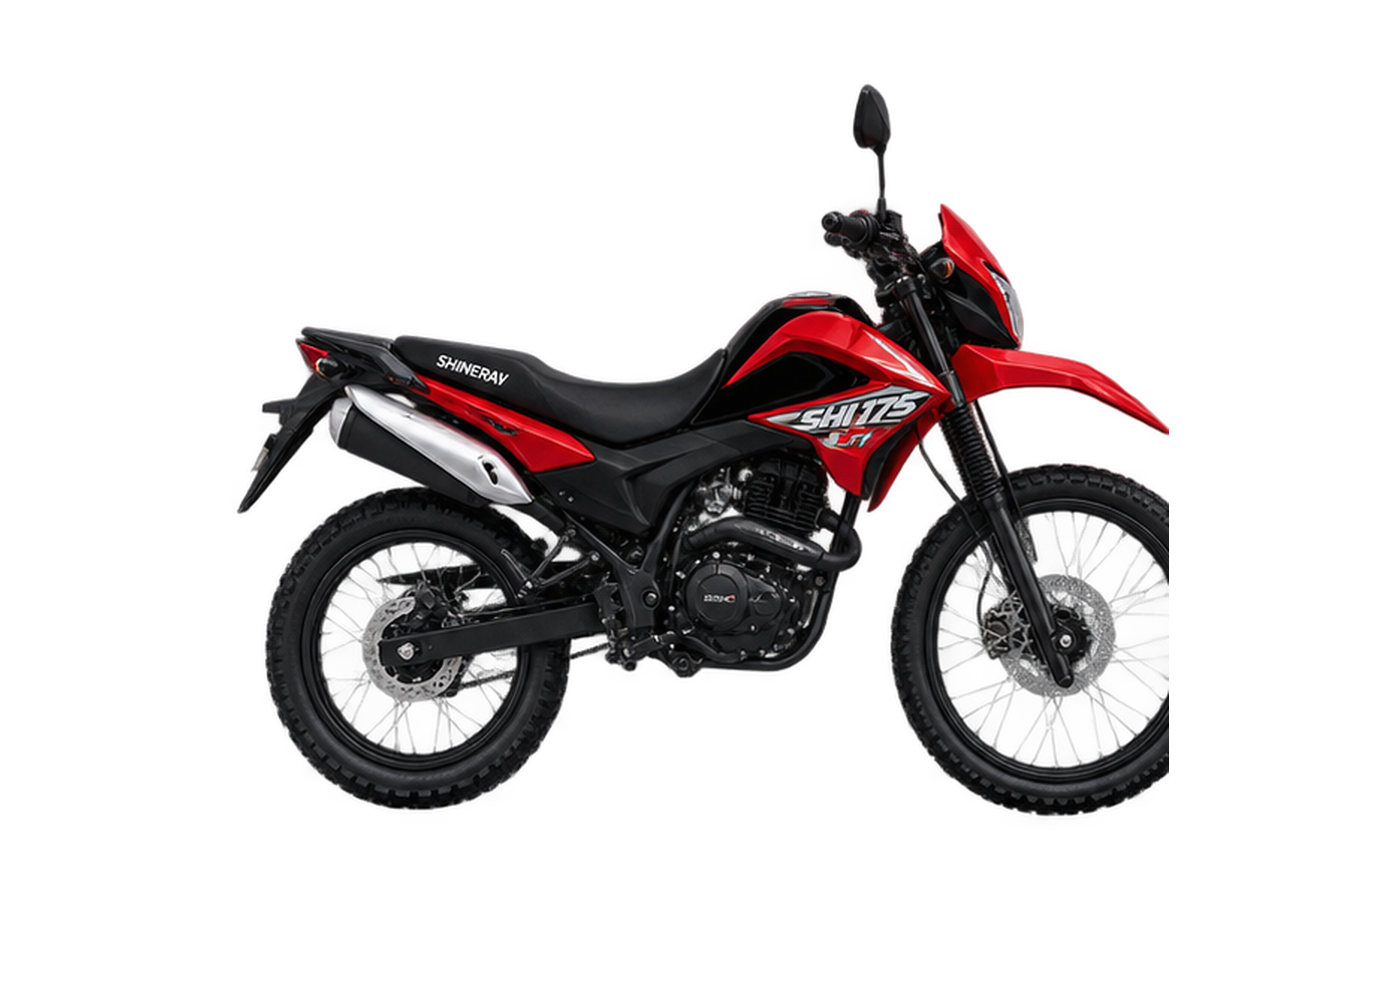
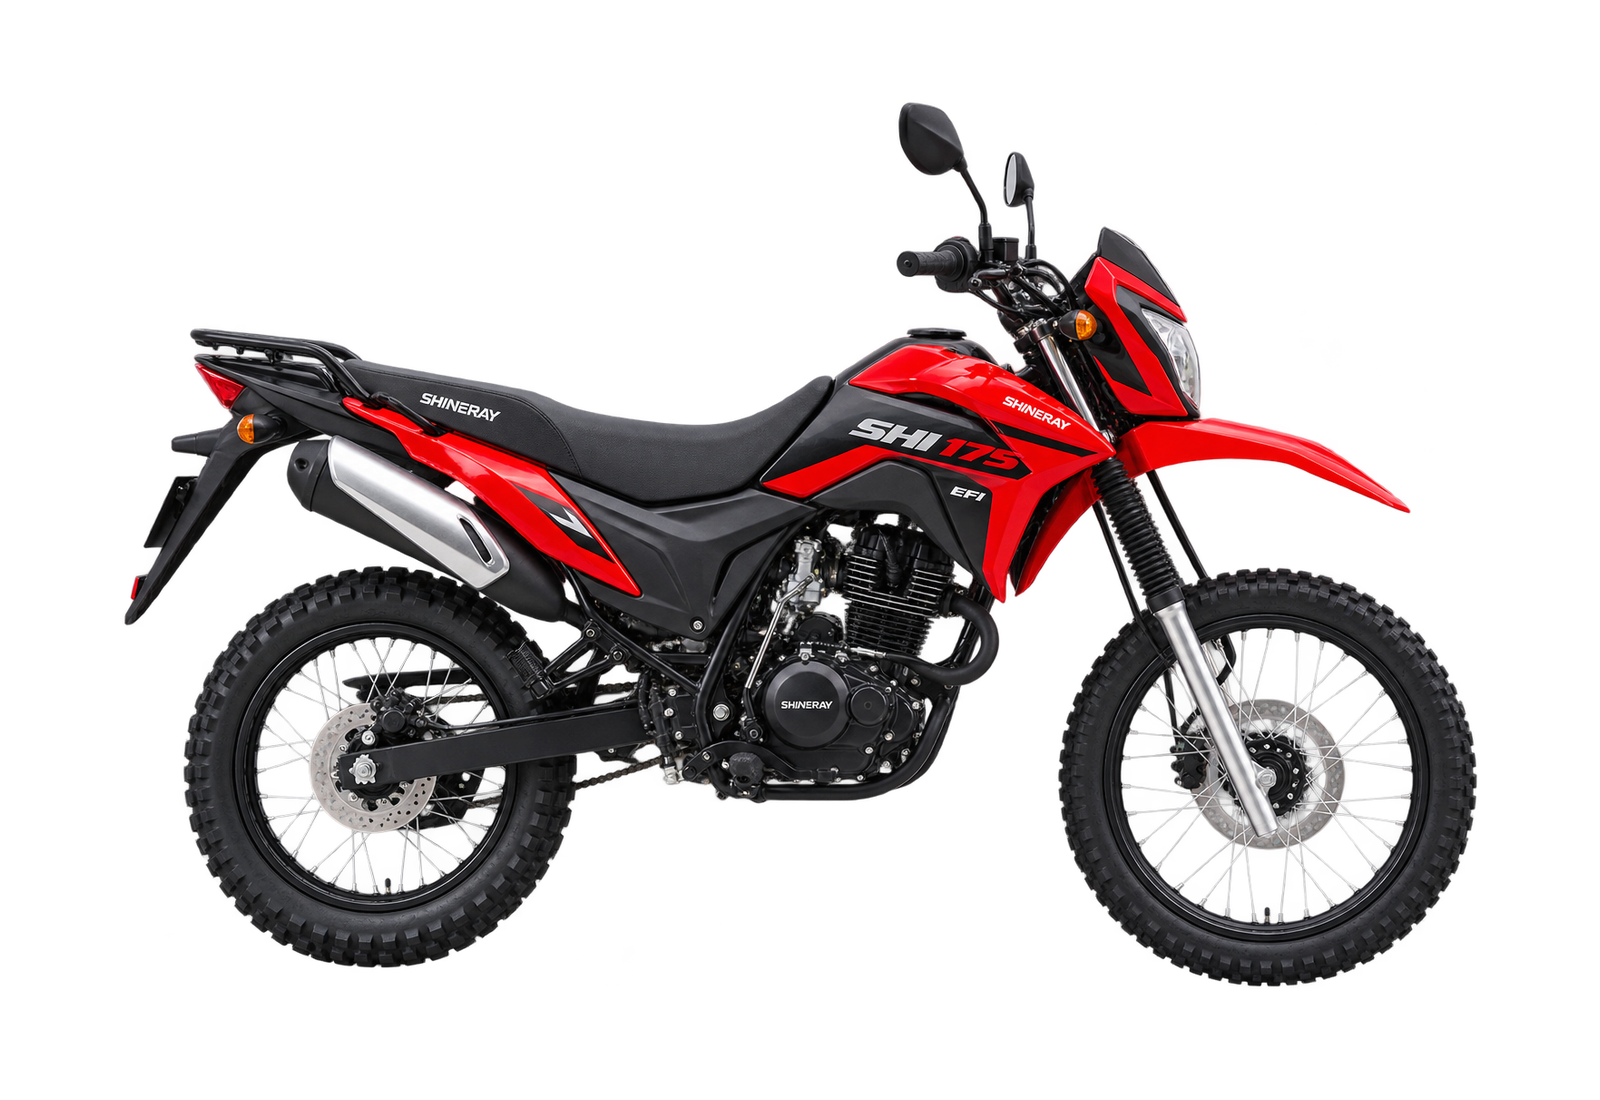
Update VR Multimarcas presentation Co-authored-by: monkeycode-ai <monkeycode-ai@chaitin.com>

Changed region(s): [[0.0614, 0.093, 0.9214, 0.899]]

diff --git a/vr-showroom/src/index.css b/vr-showroom/src/index.css
@@ -95,7 +95,7 @@ section {
 }
 
 .logo3d img {
-  width: clamp(36px, 4vw, 58px);
+  width: clamp(48px, 3.4vw, 54px);
   height: auto;
   transform-style: preserve-3d;
   animation: logo-enter 0.9s cubic-bezier(0.16, 1, 0.3, 1) 0.1s both;
@@ -344,6 +344,34 @@ section {
   pointer-events: none;
 }
 
+.slide-bike-wrap::before {
+  content: '';
+  position: absolute;
+  top: 50%;
+  left: 50%;
+  transform: translate(-50%, -50%);
+  width: min(64vw, 960px);
+  height: min(70svh, 760px);
+  z-index: 0;
+  background: radial-gradient(ellipse 50% 50% at 50% 50%, rgba(42, 46, 51, 0.4) 0%, rgba(42, 46, 51, 0) 68%);
+  pointer-events: none;
+}
+
+.slide-bike-wrap::after {
+  content: '';
+  position: absolute;
+  top: calc(50% + 34svh + 18px);
+  left: 50%;
+  transform: translate(-50%, -50%);
+  width: min(46vw, 660px);
+  height: 8svh;
+  z-index: 0;
+  background: radial-gradient(ellipse 50% 50% at 50% 50%, rgba(0, 0, 0, 0.5) 0%, rgba(0, 0, 0, 0) 70%);
+  filter: blur(20px);
+  border-radius: 50%;
+  pointer-events: none;
+}
+
 .slide-giant-number {
   position: absolute;
   top: 50%;
@@ -364,12 +392,20 @@ section {
 .slide-bike-img {
   position: relative;
   z-index: 2;
-  width: min(62vw, 900px);
-  max-height: 66svh;
+  width: auto;
   height: auto;
+  max-width: min(72vw, 1040px);
+  max-height: 76svh;
   object-fit: contain;
+  object-position: center;
+  transform: translateY(18px);
   filter: drop-shadow(0 60px 80px rgba(0, 0, 0, 0.55));
   -webkit-user-drag: none;
+}
+
+.slide-bike-img.bike-scale-jet {
+  max-width: min(92vw, 1280px);
+  max-height: 93svh;
 }
 
 .slide-info {
@@ -551,6 +587,10 @@ section {
 
 .slide-leave-prev {
   animation: slide-out-right 0.45s cubic-bezier(0.4, 0, 0.8, 1) both;
+}
+
+.slide-leave .slide-bike-wrap {
+  opacity: 0;
 }
 
 @keyframes slide-in-right {
@@ -757,46 +797,89 @@ section {
 
 /* ══════════════════════════ DETALHES ══════════════════════════ */
 
-.triptych {
+.detail-stage {
   position: relative;
   display: grid;
-  grid-template-columns: 1fr 1.6fr 1fr;
+  grid-template-columns: 1fr 1.9fr 1fr;
   align-items: center;
-  gap: clamp(12px, 2vw, 32px);
+  gap: clamp(10px, 1.6vw, 24px);
   min-height: clamp(320px, 52vh, 560px);
   margin-bottom: clamp(48px, 8vh, 88px);
 }
 
-.triptych-side {
+.detail-stage-side {
+  position: relative;
   overflow: hidden;
 }
 
-.triptych-side img {
+.detail-stage-side img {
+  display: block;
   width: 100%;
-  height: clamp(220px, 38vh, 420px);
+  height: clamp(200px, 34vh, 380px);
   object-fit: cover;
-  opacity: 0.75;
+  opacity: 0.72;
   filter: grayscale(0.25);
 }
 
-.triptych-center {
+.detail-stage-side-left {
+  transform-origin: left center;
+  transform: translateX(-30px);
+}
+
+.detail-stage-side-right {
+  transform-origin: right center;
+  transform: translateX(30px);
+}
+
+.detail-stage-side.reveal.is-visible {
+  transform: translate(0, 0);
+}
+
+.detail-stage-center {
   position: relative;
   overflow: hidden;
   z-index: 2;
+  box-shadow: 0 24px 60px -28px rgba(0, 0, 0, 0.85);
 }
 
-.triptych-center img {
+.detail-stage-center img {
+  display: block;
   width: 100%;
   height: clamp(300px, 52vh, 560px);
   object-fit: cover;
 }
 
-.triptych-center::after {
+.detail-stage-center::after {
   content: '';
   position: absolute;
   inset: 0;
   border: 1px solid var(--hairline);
   pointer-events: none;
+}
+
+.detail-stage-label {
+  display: flex;
+  align-items: center;
+  gap: 10px;
+  margin-top: 14px;
+  font-size: 11px;
+  letter-spacing: 0.28em;
+  color: var(--text-muted);
+  text-transform: uppercase;
+}
+
+.detail-stage-label::before {
+  content: '';
+  width: 16px;
+  height: 1px;
+  background: var(--gold);
+  opacity: 0.9;
+  flex-shrink: 0;
+}
+
+.detail-stage-center .detail-stage-label {
+  justify-content: center;
+  margin-top: 18px;
 }
 
 .detail-strip {
@@ -1198,8 +1281,8 @@ section {
 /* ══════════════════════════ MOBILE ══════════════════════════ */
 
 @media (max-width: 1024px) {
-  .triptych {
-    grid-template-columns: 1fr 1.5fr 1fr;
+  .detail-stage {
+    grid-template-columns: 1fr 1.6fr 1fr;
   }
 }
 
@@ -1248,6 +1331,23 @@ section {
     width: auto;
     max-width: 92%;
     max-height: 42svh;
+    transform: translateY(10px);
+  }
+
+  .slide-bike-img.bike-scale-jet {
+    max-width: 100%;
+    max-height: 52svh;
+  }
+
+  .slide-bike-wrap::before {
+    width: min(92vw, 480px);
+    height: min(52svh, 320px);
+  }
+
+  .slide-bike-wrap::after {
+    top: calc(50% + 20svh);
+    width: min(70vw, 340px);
+    height: 5svh;
   }
 
   .slide-cta {
@@ -1287,17 +1387,31 @@ section {
     padding: clamp(64px, 10vh, 100px) clamp(20px, 6vw, 32px);
   }
 
-  .triptych {
-    grid-template-columns: 1fr 1.4fr 1fr;
+  .detail-stage {
+    grid-template-columns: 1fr 1fr;
+    grid-template-rows: auto auto;
+    align-items: stretch;
+    gap: clamp(14px, 3vw, 24px);
     min-height: auto;
   }
 
-  .triptych-side img {
-    height: clamp(200px, 30vh, 320px);
+  .detail-stage-center {
+    grid-column: 1 / -1;
   }
 
-  .triptych-center img {
-    height: clamp(260px, 40vh, 420px);
+  .detail-stage-center img {
+    height: clamp(280px, 46vw, 420px);
+  }
+
+  .detail-stage-center .detail-stage-label {
+    justify-content: flex-start;
+    margin-top: 14px;
+  }
+
+  .detail-stage-side img {
+    height: clamp(160px, 24vh, 240px);
+    opacity: 0.85;
+    filter: grayscale(0.1);
   }
 
   .detail-strip {

diff --git a/vr-showroom/src/components/sections/Details.tsx b/vr-showroom/src/components/sections/Details.tsx
@@ -1,6 +1,10 @@
 import { Reveal } from '../Reveal'
 import { detailItems } from '../../data/details'
 
+const left = detailItems[0]
+const center = detailItems[1]
+const right = detailItems[2]
+
 export function Details() {
   return (
     <section className="section details" id="detalhes">
@@ -18,15 +22,20 @@ export function Details() {
         </h2>
       </div>
 
-      <div className="triptych" aria-label="Detalhes das motocicletas">
-        <Reveal variant="left" delay={100} className="triptych-side">
-          <img src={detailItems[0].image} alt="Detalhe da roda" draggable="false" />
+      <div className="detail-stage" aria-label="Detalhes das motocicletas">
+        <Reveal variant="left" delay={120} className="detail-stage-side detail-stage-side-left">
+          <img src={left.image} alt={`Detalhe — ${left.label}`} draggable="false" loading="lazy" />
+          <span className="detail-stage-label">{left.label}</span>
         </Reveal>
-        <Reveal variant="clip" className="triptych-center">
-          <img src={detailItems[1].image} alt="Detalhe do motor" draggable="false" />
+
+        <Reveal variant="clip" className="detail-stage-center">
+          <img src={center.image} alt={`Detalhe — ${center.label}`} draggable="false" loading="lazy" />
+          <span className="detail-stage-label">{center.label}</span>
         </Reveal>
-        <Reveal variant="right" delay={100} className="triptych-side">
-          <img src={detailItems[2].image} alt="Detalhe do farol" draggable="false" />
+
+        <Reveal variant="right" delay={120} className="detail-stage-side detail-stage-side-right">
+          <img src={right.image} alt={`Detalhe — ${right.label}`} draggable="false" loading="lazy" />
+          <span className="detail-stage-label">{right.label}</span>
         </Reveal>
       </div>
 

diff --git a/vr-showroom/src/data/motorcycles.ts b/vr-showroom/src/data/motorcycles.ts
@@ -21,7 +21,7 @@ export const motorcycles: Motorcycle[] = [
     model: '175 EFI',
     name: 'SHI 175 EFI',
     displayNumber: '175',
-    image: '/images/motorcycles/shi-175-efi.svg',
+    image: '/images/motorcycles/shi-175-efi.png?v=2',
     specs: [
       { label: 'CC', value: '175' },
       { label: 'INJEÇÃO', value: 'EFI' },
@@ -35,7 +35,7 @@ export const motorcycles: Motorcycle[] = [
     model: '125 EFI',
     name: 'JET 125 EFI',
     displayNumber: '125',
-    image: '/images/motorcycles/jet-125-efi.svg',
+    image: '/images/motorcycles/jet-125-efi.png?v=2',
     specs: [
       { label: 'CC', value: '125' },
       { label: 'INJEÇÃO', value: 'EFI' },
@@ -49,7 +49,7 @@ export const motorcycles: Motorcycle[] = [
     model: '175 SS EFI',
     name: 'SHI 175 SS EFI',
     displayNumber: '175',
-    image: '/images/motorcycles/shi-175-ss-efi.svg',
+    image: '/images/motorcycles/shi-175-ss-efi.png?v=2',
     specs: [
       { label: 'CC', value: '175' },
       { label: 'INJEÇÃO', value: 'EFI' },
@@ -63,7 +63,7 @@ export const motorcycles: Motorcycle[] = [
     model: '200 EFI',
     name: 'STORM 200 EFI',
     displayNumber: '200',
-    image: '/images/motorcycles/storm-200-efi.svg',
+    image: '/images/motorcycles/storm-200-efi.png?v=2',
     specs: [
       { label: 'CC', value: '200' },
       { label: 'INJEÇÃO', value: 'EFI' },

diff --git a/vr-showroom/src/components/Showroom.tsx b/vr-showroom/src/components/Showroom.tsx
@@ -37,10 +37,12 @@ function ShowroomSlide({ bike, entering, leaving, intro = false, dir, onTransiti
           {bike.displayNumber}
         </div>
         <img
-          className="slide-bike-img"
+          className={`slide-bike-img${bike.id === 'jet-125-efi' ? ' bike-scale-jet' : ''}`}
           src={bike.image}
           alt={`Motocicleta ${bike.name}`}
           draggable="false"
+          loading={bike.id === motorcycles[0].id ? 'eager' : 'lazy'}
+          fetchPriority={bike.id === motorcycles[0].id ? 'high' : 'auto'}
         />
       </div>
 
@@ -110,6 +112,13 @@ export function Showroom() {
     const t = setTimeout(handleIntroEnd, 1700)
     return () => clearTimeout(t)
   }, [handleIntroEnd])
+
+  useEffect(() => {
+    motorcycles.forEach((bike) => {
+      const img = new Image()
+      img.src = bike.image
+    })
+  }, [])
 
   const handleTouchStart = (e: React.TouchEvent) => {
     touchStartX.current = e.touches[0].clientX

diff --git a/vr-showroom/src/config/site.ts b/vr-showroom/src/config/site.ts
@@ -3,10 +3,9 @@ export const site = {
   shortName: 'VR',
   city: 'Santo Antônio de Pádua',
   state: 'RJ',
-  phoneDisplay: '(22) 9 9999-9999',
-  // Substitua pelo número real no formato internacional, ex.: 5522999999999
-  whatsappNumber: '5522999999999',
+  phoneDisplay: '(22) 9 9716-0649',
+  whatsappNumber: '5522997160649',
 }
 
 export const whatsappLink = (message: string) =>
-  `https://wa.me/${site.whatsappNumber}?text=${encodeURIComponent(message)}`
+  `https://api.whatsapp.com/send/?phone=${site.whatsappNumber}&text=${encodeURIComponent(message)}&type=phone_number&app_absent=0`
